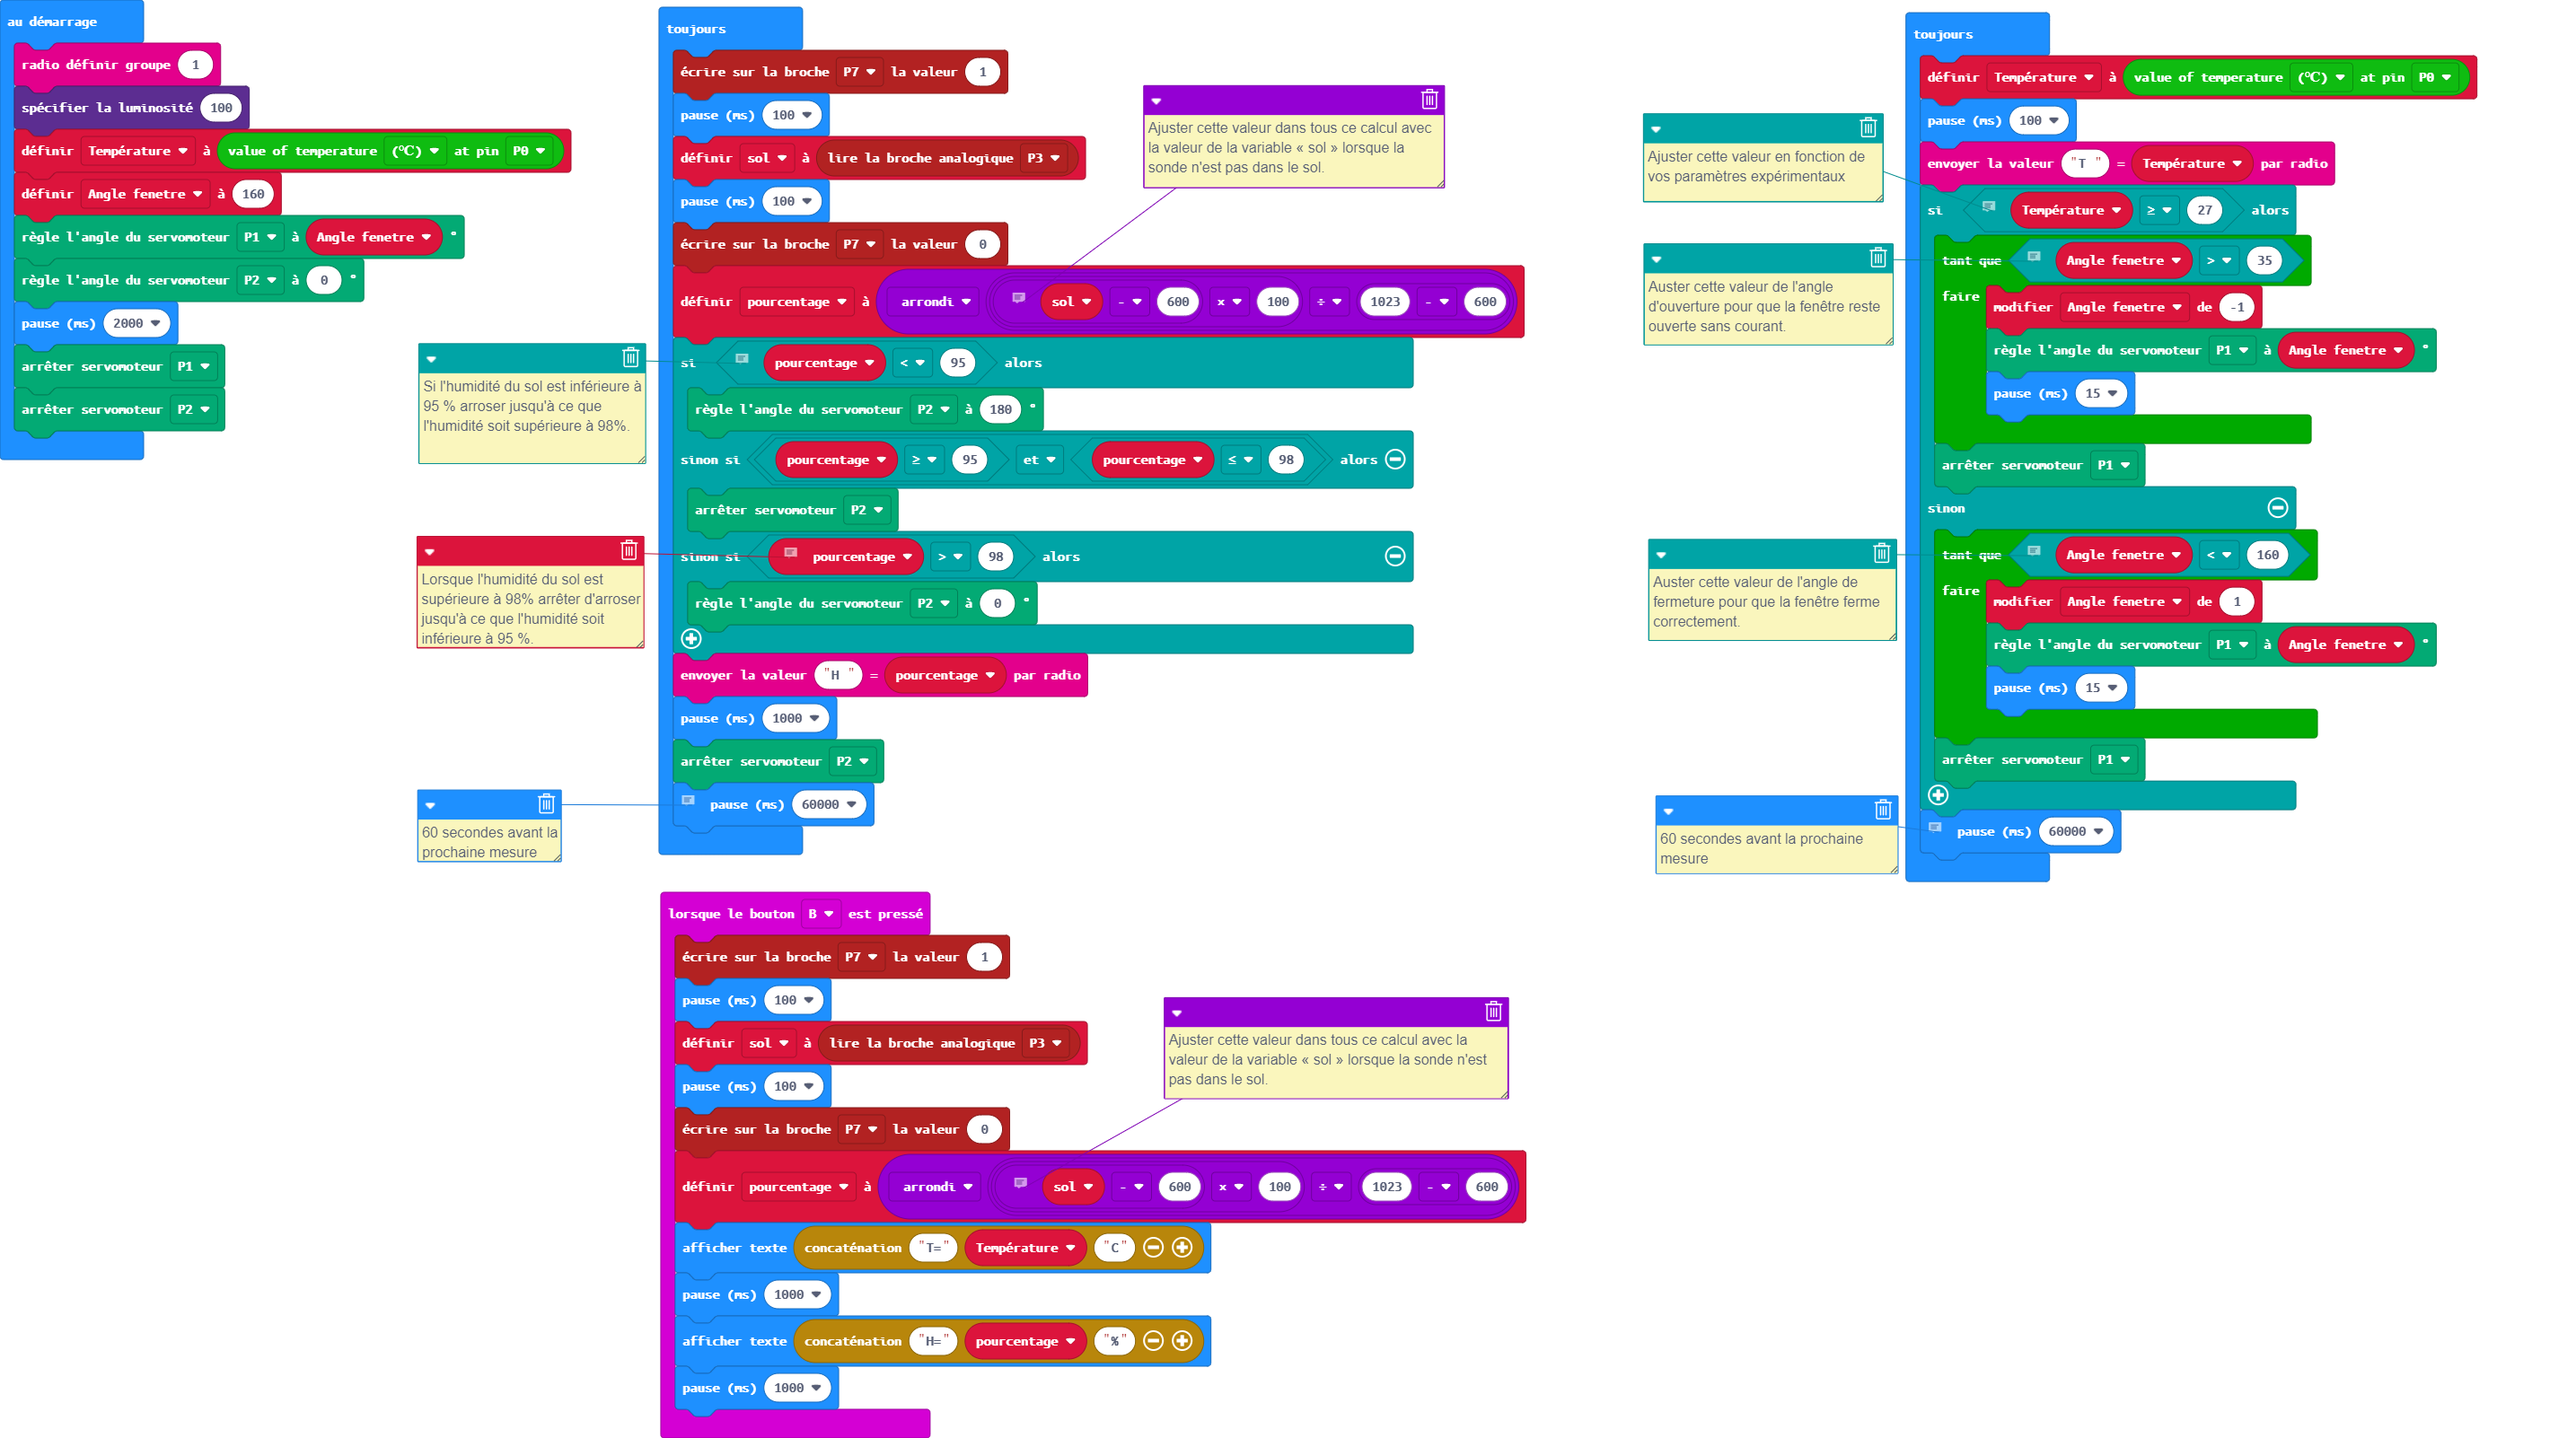
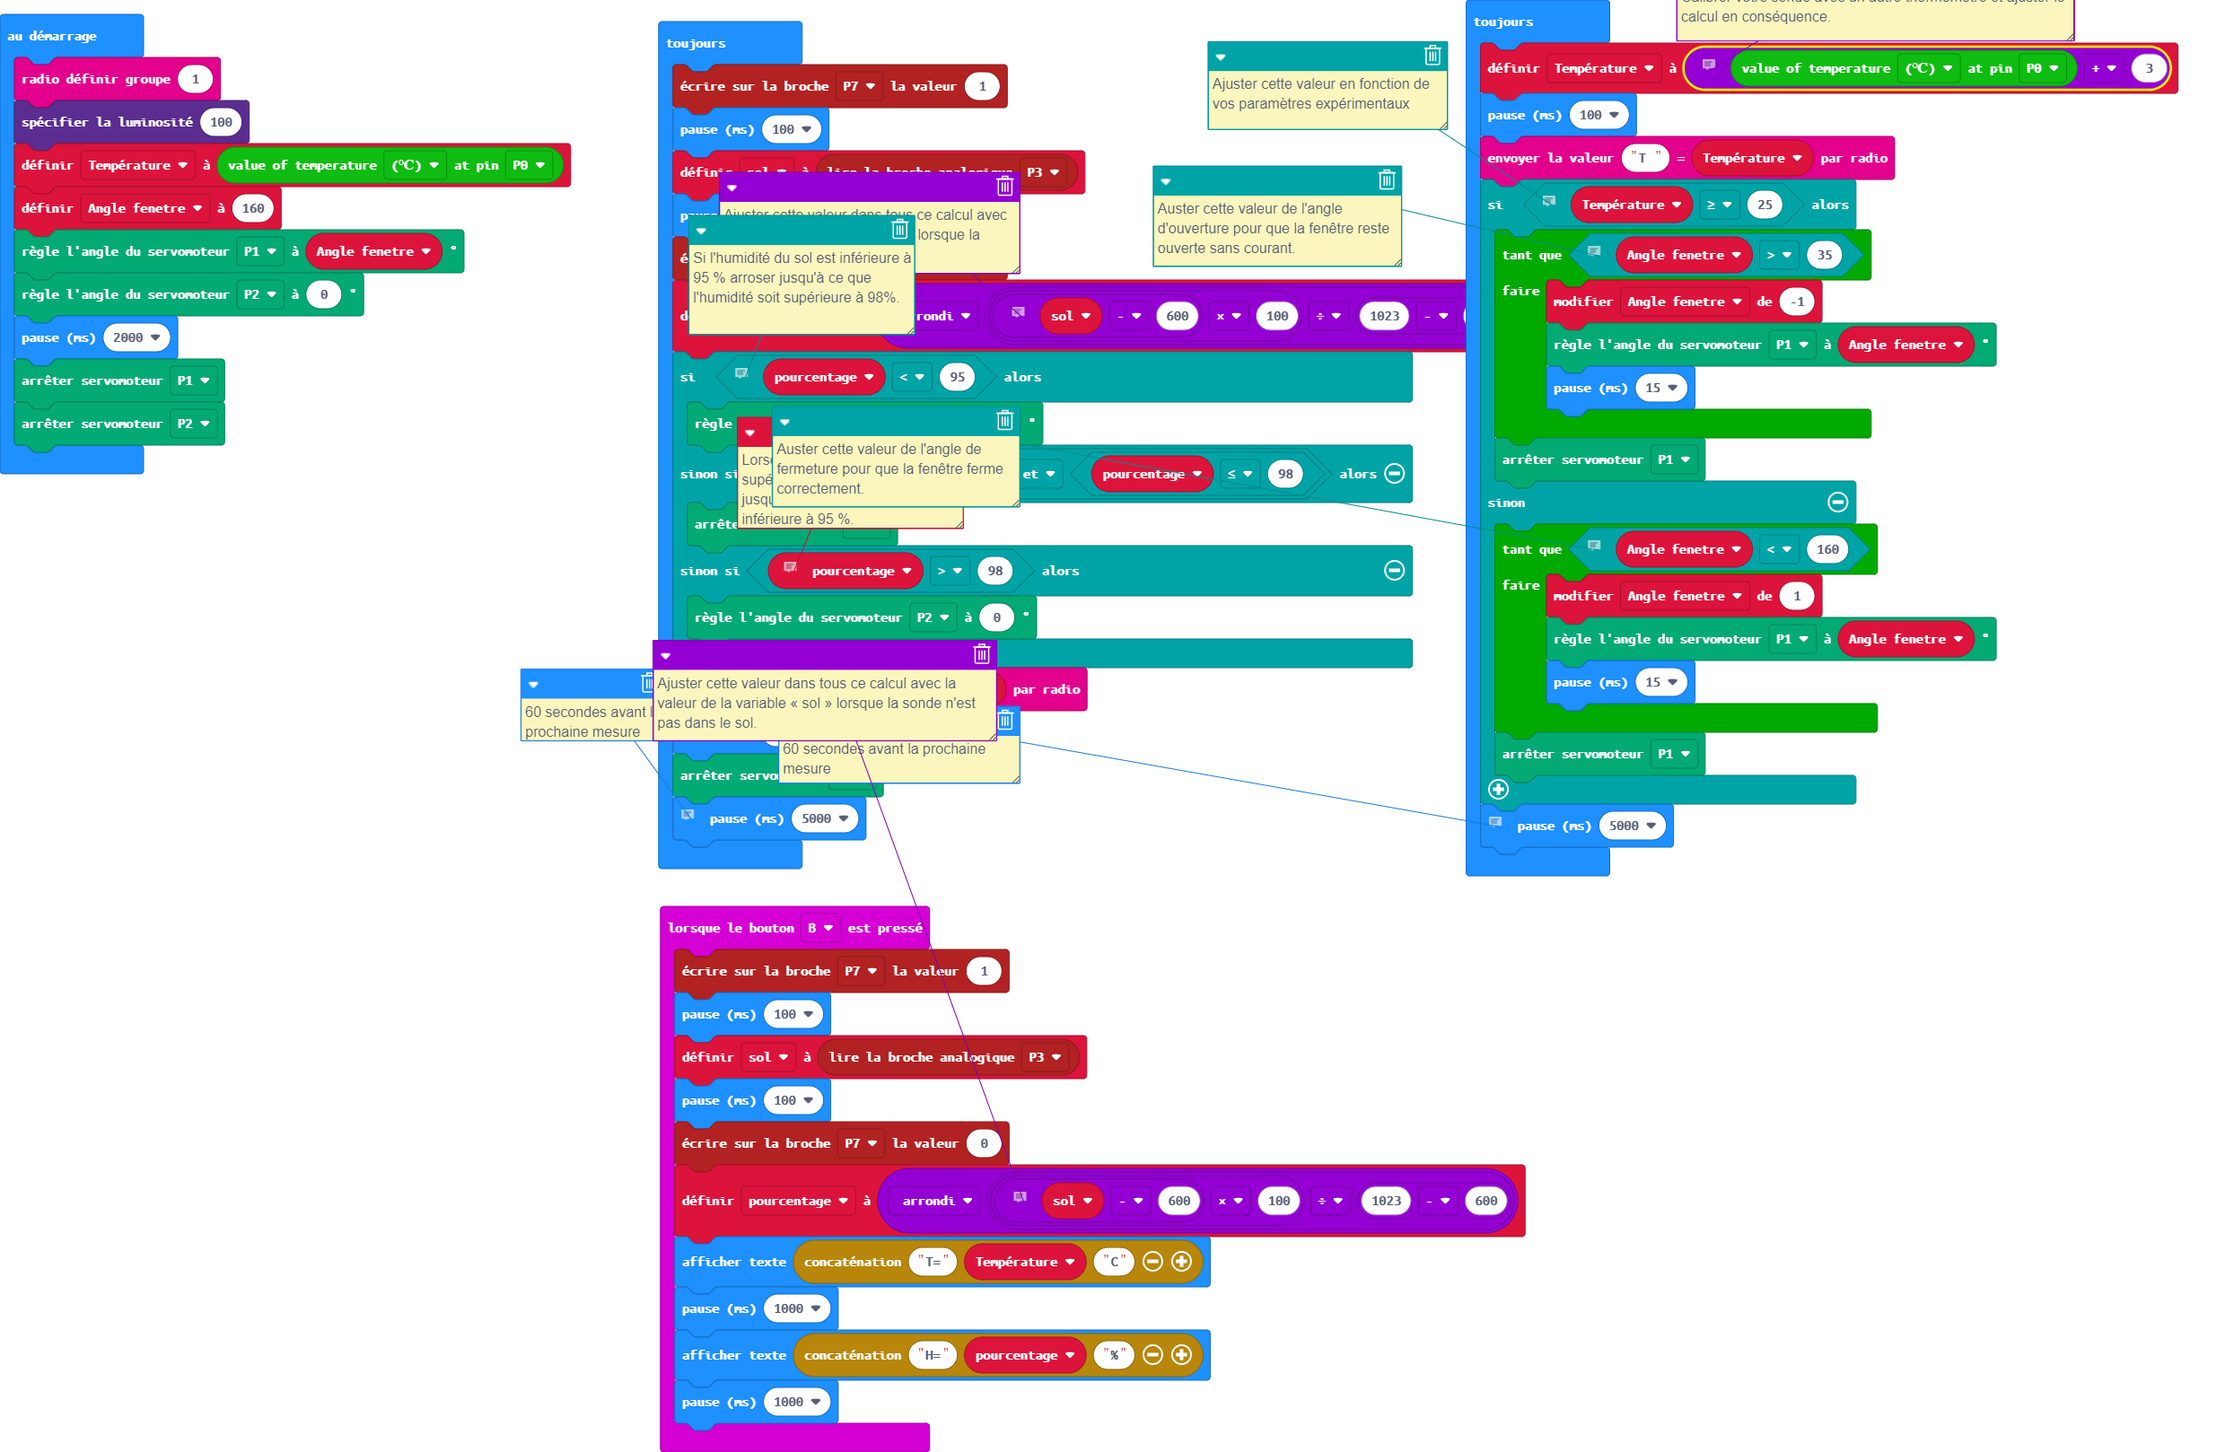
Ajout de la calibration du thermomètre

diff --git a/main.ts b/main.ts
@@ -44,14 +44,15 @@ basic.forever(function () {
     basic.pause(1000)
     servos.P2.stop()
     // 60 secondes avant la prochaine mesure
-    basic.pause(60000)
+    basic.pause(5000)
 })
 basic.forever(function () {
-    Température = smarthome.ReadTemperature(TMP36Type.TMP36_temperature_C, AnalogPin.P0)
+    // Calibrer votre sonde avec un autre thermomètre et ajuster le calcul en conséquence.
+    Température = smarthome.ReadTemperature(TMP36Type.TMP36_temperature_C, AnalogPin.P0) + 3
     basic.pause(100)
     radio.sendValue("T ", Température)
     // Ajuster cette valeur en fonction de vos paramètres expérimentaux
-    if (Température >= 27) {
+    if (Température >= 25) {
         // Auster cette valeur de l'angle d'ouverture pour que la fenêtre reste ouverte sans courant.
         while (Angle_fenetre > 35) {
             Angle_fenetre += -1
@@ -69,5 +70,5 @@ basic.forever(function () {
         servos.P1.stop()
     }
     // 60 secondes avant la prochaine mesure
-    basic.pause(60000)
+    basic.pause(5000)
 })
